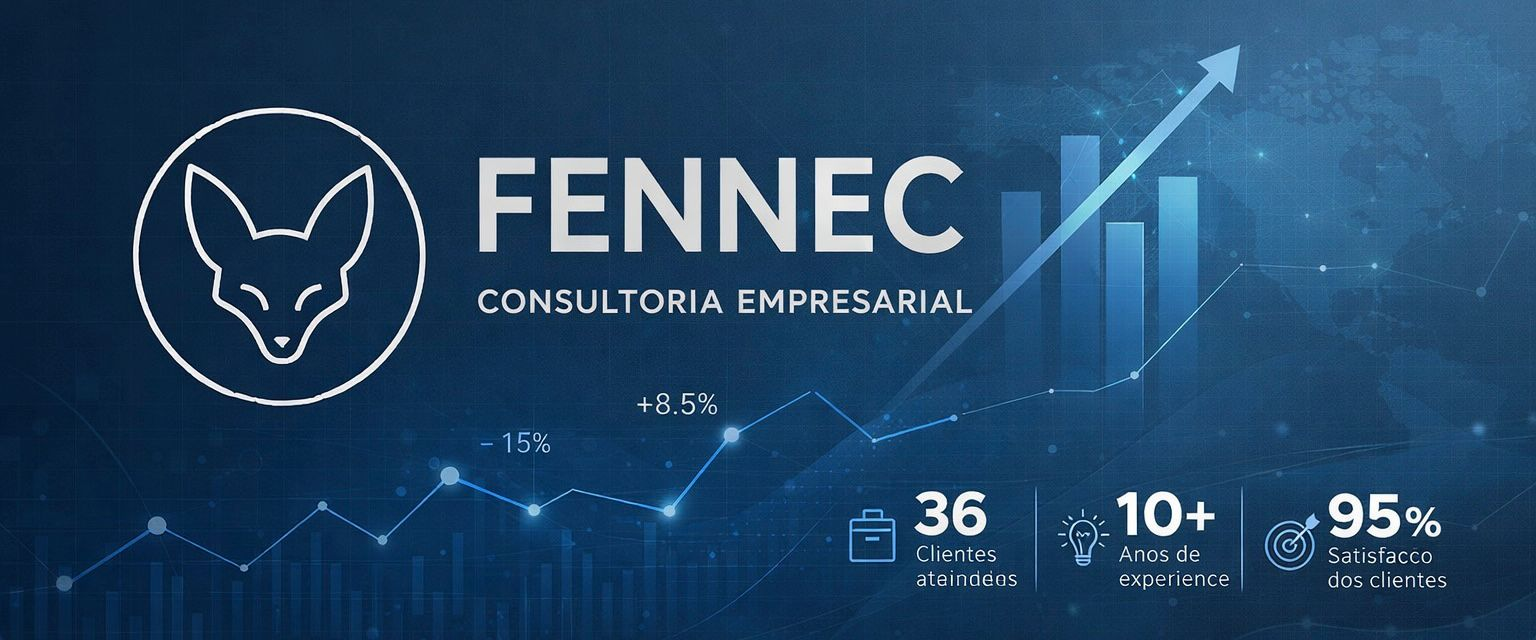
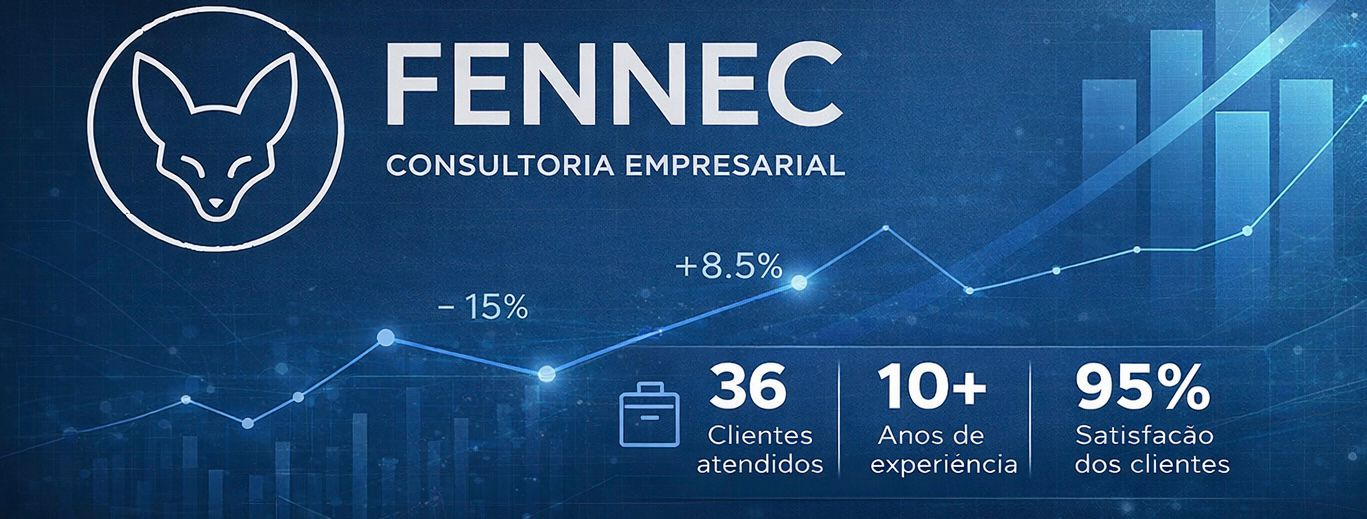
ok

diff --git a/src/componentes/Banner/banner.css b/src/componentes/Banner/banner.css
@@ -1,70 +1,79 @@
-/* remove espaços padrão */
-body {
-  margin: 0;
-}
-
-/* HERO */
-.hero {
+.banner {
   position: relative;
-  width: 100vw;
-  height: 520px;
-  background: url("/images/Fennec_banner.jpeg") center / cover no-repeat;
-  display: flex;
-  align-items: center;
+  height: 300px;
+  background-size: cover;
+  background-position: center;
+  color: #fff;
   overflow: hidden;
 }
 
-/* escurece o fundo para leitura */
-.hero-overlay {
+.overlay {
   position: absolute;
   inset: 0;
   background: linear-gradient(
-    to right,
-    rgba(5, 25, 45, 0.85),
-    rgba(5, 25, 45, 0.4)
+    180deg,
+    rgba(10, 25, 47, 0.8),
+    rgba(10, 25, 47, 0.6)
   );
 }
 
-/* conteúdo */
-.hero-content {
+/* Conteúdo */
+.banner-content {
   position: relative;
-  z-index: 2;
-  color: #fff;
-  max-width: 1200px;
-  padding: 0 6%;
-}
-
-.hero-content h1 {
-  font-size: 4rem;
-  letter-spacing: 4px;
-  margin-bottom: 12px;
-}
-
-.hero-content p {
-  font-size: 1.4rem;
-  opacity: 0.9;
-  margin-bottom: 28px;
-}
-
-.hero-metrics {
+  height: 100%;
+  padding: 40px 80px;
   display: flex;
-  gap: 32px;
-  font-size: 1rem;
-  opacity: 0.9;
+  flex-direction: column;
+  justify-content: center;
+  gap: 20px;
 }
 
-/* RESPONSIVO */
-@media (max-width: 768px) {
-  .hero {
-    height: 420px;
-  }
+/* Texto */
+.text h1 {
+  font-size: 40px;
+  margin: 0;
+  letter-spacing: 3px;
+}
 
-  .hero-content h1 {
-    font-size: 2.5rem;
-  }
+.text span {
+  font-size: 14px;
+  opacity: 0.85;
+}
 
-  .hero-metrics {
-    flex-direction: column;
-    gap: 12px;
+/* Linha animada */
+.chart-line {
+  width: 100%;
+  height: 120px;
+}
+
+.line {
+  fill: none;
+  stroke: #4fc3f7;
+  stroke-width: 3;
+  stroke-dasharray: 1000;
+  stroke-dashoffset: 1000;
+  animation: drawLine 4s ease-in-out infinite alternate;
+}
+
+@keyframes drawLine {
+  to {
+    stroke-dashoffset: 0;
   }
+}
+
+/* Pontos */
+.point {
+  fill: #4fc3f7;
+  animation: pulse 2s infinite ease-in-out;
+}
+
+.delay1 { animation-delay: 0.4s; }
+.delay2 { animation-delay: 0.8s; }
+.delay3 { animation-delay: 1.2s; }
+.delay4 { animation-delay: 1.6s; }
+
+@keyframes pulse {
+  0% { transform: scale(1); opacity: 0.6; }
+  50% { transform: scale(1.4); opacity: 1; }
+  100% { transform: scale(1); opacity: 0.6; }
 }

diff --git a/src/App.js b/src/App.js
@@ -1,5 +1,5 @@
 import { useState } from 'react';
-import Banner from './componentes/Banner/banner';
+import Banner from './componentes/Banner/Banner';
 import Formulario from './componentes/Formulario/Index';
 import Time from './componentes/Time/Time';
 
@@ -9,31 +9,31 @@ function App() {
     {
       nome: 'TI',
       corPrimaria: '#383838ff',
-      corSecundaria: '#D9F7E9'
+      corSecundaria: '#F0F8E2'
     }, 
 
       {
       nome: 'Marketing',
       corPrimaria: '#E06B69',
-      corSecundaria: '#F3F2EC'
+      corSecundaria: '#F0F8E2'
     }, 
 
       {
       nome: 'Vendas',
       corPrimaria: '#008cffff',
-      corSecundaria: '#E8F8FF'
+      corSecundaria: '#F0F8E2'
     }, 
 
       {
       nome: 'RH',
       corPrimaria: '#FFBA05',
-      corSecundaria: '#F3F2EC'
+      corSecundaria: '#F0F8E2'
     }, 
 
       {
       nome: 'Financeiro',
       corPrimaria: '#5B913B',
-      corSecundaria: '#F3F2EC'
+      corSecundaria: '#F0F8E2'
     }, 
 
       {
@@ -52,7 +52,6 @@ function App() {
    
   const [colaboradores, setColaboradores] = useState([]);
   const aoNovoColaboradorAdicionado = (colaborador) => {
-    console.log(colaborador);
     setColaboradores([...colaboradores, colaborador]);
   }
 

diff --git a/src/componentes/Banner/banner.js b/src/componentes/Banner/banner.js
@@ -1,22 +1,24 @@
 import "./banner.css";
+import ChartLine from "./ChartLine";
 
-function Banner() {
+const Banner = () => {
   return (
-    <header className="hero">
-      <div className="hero-overlay"></div>
+    <header
+      className="banner"
+      style={{ backgroundImage: "url(/images/banner.jpeg)" }}
+    >
+      <div className="overlay" />
 
-      <div className="hero-content">
-        <h1>FENNEC</h1>
-        <p>Consultoria Empresarial</p>
-
-        <div className="hero-metrics">
-          <span>36+ Clientes</span>
-          <span>10+ Anos</span>
-          <span>95% Satisfação</span>
+      <div className="banner-content">
+        <div className="text">
+          <h1>FENNEC</h1>
+          <span>Consultoria Empresarial</span>
         </div>
+
+        <ChartLine />
       </div>
     </header>
   );
-}
+};
 
 export default Banner;

diff --git a/src/componentes/Banner/ChartLine.js b/src/componentes/Banner/ChartLine.js
@@ -1,0 +1,22 @@
+const ChartLine = () => {
+  return (
+    <svg
+      viewBox="0 0 800 200"
+      className="chart-line"
+      preserveAspectRatio="none"
+    >
+      <path
+        d="M0 140 L120 120 L260 135 L380 95 L520 110 L680 80 L800 60"
+        className="line"
+      />
+
+      <circle cx="120" cy="120" r="4" className="point" />
+      <circle cx="260" cy="135" r="4" className="point delay1" />
+      <circle cx="380" cy="95" r="4" className="point delay2" />
+      <circle cx="520" cy="110" r="4" className="point delay3" />
+      <circle cx="680" cy="80" r="4" className="point delay4" />
+    </svg>
+  );
+};
+
+export default ChartLine;

diff --git a/src/componentes/Time/Time.js b/src/componentes/Time/Time.js
@@ -8,7 +8,7 @@ const Time = (props) => {
         (props.colaboradores.length > 0) ? <section className='time' style={css}>
             <h3 style={{ borderColor: props.corPrimaria }}>{props.nome}</h3>
             <div className='colaboradores'>
-                {props.colaboradores.map( colaborador => <Colaborador nome={colaborador.nome} cargo={colaborador.cargo} imagem={colaborador.imagem}/> )}
+                {props.colaboradores.map( colaborador => <Colaborador corDeFundo={props.corPrimaria} key={colaborador.nome} nome={colaborador.nome} cargo={colaborador.cargo} imagem={colaborador.imagem}/> )}
             </div>
         </section> 
         : ''

diff --git a/src/componentes/ListaSuspensa/Index.js b/src/componentes/ListaSuspensa/Index.js
@@ -4,7 +4,8 @@ const ListaSuspensa = (props) => {
     return(
         <div className="lista-suspensa">
             <label>{props.label}</label>
-            <select onChange={evento => props.aoAlterado(evento.target.value)} required={props.required} value={props.value}> 
+            <select onChange={evento => props.aoAlterado(evento.target.value)} required={props.required} value={props.valor}> 
+                <option value=""></option>
                 {props.itens.map(item => <option key={item}>{item}</option>)}
 
             </select>

diff --git a/src/componentes/Colaborador/colaborador.js b/src/componentes/Colaborador/colaborador.js
@@ -1,8 +1,8 @@
 import './colaborador.css'
 
-const Colaborador = ({ nome, imagem, cargo }) => {
+const Colaborador = ({ nome, imagem, cargo, corDeFundo}) => {
     return (<div className='colaborador'>
-        <div className='cabecalho'>
+        <div className='cabecalho' style={{backgroundColor: corDeFundo}}>
             <img src={imagem} alt={nome}/>
         </div>
         <div className='rodape'>
